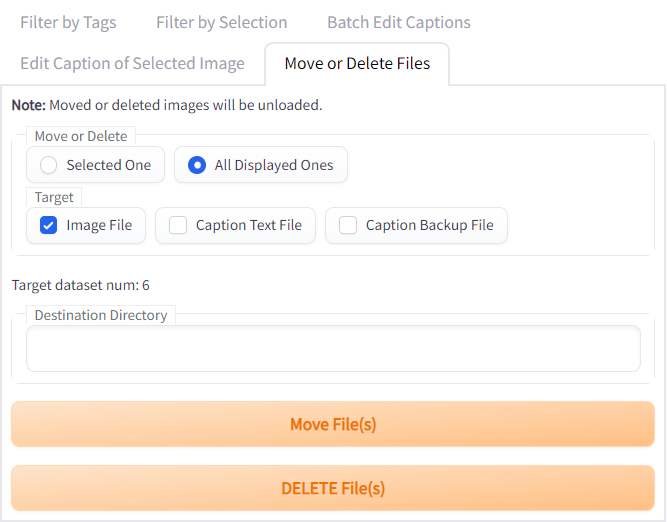
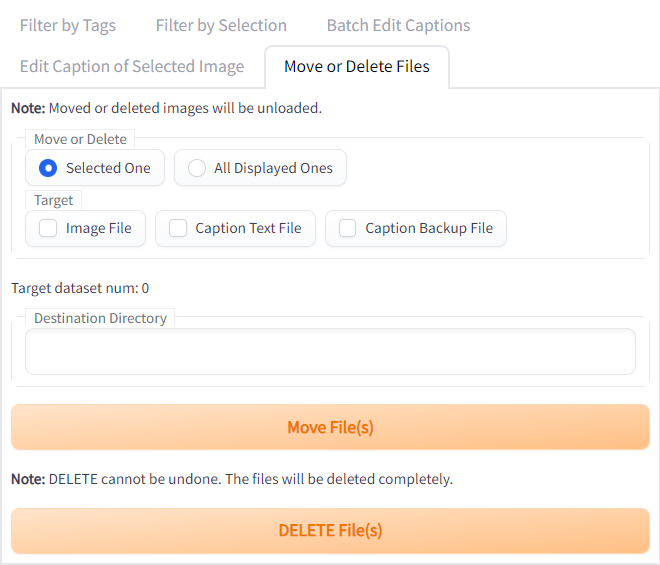
update README-JP

diff --git a/README-JP.md b/README-JP.md
@@ -15,7 +15,8 @@ DeepBooru interrogator で生成したような、カンマ区切り形式のキ
 ## インストール方法
 ### WebUIのExtensionsタブからインストールする
 "Install from URL" タブに `https://github.com/toshiaki1729/stable-diffusion-webui-dataset-tag-editor.git` をコピーしてインストールできます。  
-"Availables" タブにこの拡張機能が表示されている場合は、ワンクリックでインストール可能です。
+"Availables" タブにこの拡張機能が表示されている場合は、ワンクリックでインストール可能です。  
+web UI の "Extensions" タブから更新をした際、完全に更新を適用するには web UI を再起動する必要がある場合があります。
 
 ### 手動でインストールする
 web UI の `extensions` フォルダにリポジトリのクローンを作成し再起動してください。
@@ -30,34 +31,46 @@ git clone https://github.com/toshiaki1729/stable-diffusion-webui-dataset-tag-edi
 - 画像を見ながらキャプションの編集ができます
 - タグの検索ができます
 - 複数タグで絞り込んでキャプションの編集ができます
+  - 絞り込み方法として、AND/OR/NOT検索ができます
 - タグを一括で置換・削除・追加できます
-- BLIPやDeepDanbooruを使用してタグの追加や編集ができます
+- タグまたはキャプション全体について一括置換ができます
+  - [正規表現](https://docs.python.org/ja/3/library/re.html#regular-expression-syntax) が利用可能です
+- BLIP、DeepDanbooru、[WDv1.4 Tagger](https://huggingface.co/SmilingWolf/wd-v1-4-vit-tagger)を使用してタグの追加や編集ができます
+- 画像やキャプションファイルの一括移動・削除ができます
 
 
 ## 使い方
 1. web UI でデータセットを作成する
+    - 既にリサイズ・トリミングされた画像を使用することをお勧めします
 1. データセットを読み込む
-    - 必要に応じてBLIPやDeepDanbooruでタグ付けができます
+    - 必要に応じてDeepDanbooru等でタグ付けができます
 1. キャプションを編集する
-    - "Filter and Edit Tags" タブで編集したいタグを選択する
-      - データセットに含まれるタグを検索・選択して編集対象を絞り込む
-      - 既存のタグを置換・削除したり新しく追加したりする
+    - "Filter by Tags" タブでキャプションの編集をしたい画像を絞り込む
     - 画像を手動で選んで絞り込む場合は "Filter by Selection" タブを使用する
+    - 一括でタグを置換・削除・追加する場合は "Batch Edit Caption" タブを使用する
     - キャプションを個別に編集したい場合は "Edit Caption of Selected Image" タブを使用する
-      - BLIPやDeepDanbooruも利用可能
+      - DeepDanbooru等も利用可能
+    - 選択したものをデータセットから一括移動・削除したい場合は "Remove or Delete Files" タブを使用する
 1. "Save all changes" ボタンをクリックして保存する
 
 
 ## 表示内容
 
 ### 共通
+
+![](pic/ss02.png)
+
 - "Save all changes" ボタン
   - キャプションをテキストファイルに保存します。このボタンを押すまで全ての変更は適用されません。
   - "Backup original text file" にチェックを入れることで、保存時にオリジナルのテキストファイル名をバックアップします。
     - バックアップファイル名は、filename.000、 -.001、 -.002、…、のように付けられます。
   - キャプションを含むテキストファイルが無い場合は新しく作成されます。
-- "Results" テキストボックス
-  - 保存した結果が表示されます。
+- "Reload/Save Settings" アコーディオン
+  - UIで表示されている設定を全て再読み込み・保存したり、デフォルトに戻せます。
+    - "Reload settings" : 設定を再読み込みします。
+    - "Save current settings" : 現在の設定を保存します。
+    - "Restore settings to default" : 設定をデフォルトに戻します（保存はしません）。
+  - 設定は `.../tag-editor-root-dir/config.json` に保存されています。
 - "Dataset Directory" テキストボックス
   - 学習データセットのあるディレクトリを入力してください。
   - 下のオプションからロード方法を変更できます。
@@ -74,37 +87,37 @@ git clone https://github.com/toshiaki1729/stable-diffusion-webui-dataset-tag-edi
 
 ***
 
-### "Filter and Edit Tags" タブ
-![](ss02.png)
-
-- "Search Tags" テキストボックス
-  - 入力した文字で下に表示されているタグを検索し絞り込みます。
+### "Filter by Tags" タブ
+![](pic/ss03.png)
+#### Common
 - "Clear tag filters" ボタン
   - タグの検索やタグによる画像の絞り込みを取り消します。
 - "Clear ALL filters" ボタン
   - "Filter by Selection" タブでの画像選択による絞り込みを含めて、全ての絞り込みを取り消します。
+
+#### Search tags / Filter images by tags
+"Positive Filter" : 指定した条件を**満たす**画像を表示します。  
+"Negative Filter" : 指定した条件を**満たさない**画像を表示します。  
+両フィルタは同時に指定可能です
+
+- "Search Tags" テキストボックス
+  - 入力した文字で下に表示されているタグを検索し絞り込みます。
 - "Sort by / Sort order" ラジオボタン
   - 下に表示されているタグの並び順を切り替えます。
     - Alphabetical Order / Frequency : アルファベット順／出現頻度順
     - Ascending / Descending : 昇順／降順
+- "Filter Logic" ラジオボタン
+  - 絞り込みの方法を指定します。
+    - "AND" : 選択したタグを全て含む画像
+    - "OR" : 選択したタグのいずれかを含む画像
+    - "NONE" : フィルタを無効にする
 - "Filter Images by Tags" チェックボックス
   - 選択したタグによって左の画像を絞り込みます。絞り込まれた画像のキャプションの内容に応じて、タグも絞り込まれます。
-- "Selected Tags" テキストボックス (編集不可)
-  - 選択したタグをカンマ区切りで表示します。
-- "Edit Tags" テキストボックス
-  - 選択したタグを編集します。編集内容は絞り込まれている画像にのみ適用されます。選択されていないタグには影響しません。
-    - 編集すると、カンマ区切りで同じ場所にあるタグを置換できます。
-    - タグを空白に変えることで削除できます。
-    - 末尾にタグを追加することでキャプションに新たなタグを追加できます。
-      - タグが追加される位置はキャプションの先頭と末尾を選べます。
-        - "Prepend additional tags" をチェックすると先頭、チェックを外すと末尾に追加します。
-- "Apply changes to filtered images" ボタン
-  - 絞り込まれている画像に、タグの変更を適用します。
 
 ***
 
 ### "Filter by Selection" タブ
-![](ss03.png)
+![](pic/ss04.png)
 
 - "Add selection" ボタン
   - 左で選択した画像を選択対象に追加します。
@@ -123,8 +136,40 @@ git clone https://github.com/toshiaki1729/stable-diffusion-webui-dataset-tag-edi
 
 ***
 
+### "Batch Edit Captions" タブ
+![](pic/ss05.png)
+
+- "Edit common tags" は、表示されている画像のタグを編集するシンプルな方法です。
+  - "Common Tags" テキストボックス (編集不可)
+    - 表示されている画像に共通するタグをカンマ区切りで表示します。
+    - 上の "Show only … Positive Filter" をチェックすることで、"Filter by Tags" の "Positive Filter" で選択したもののみ表示することができます。
+  - "Edit Tags" テキストボックス
+    - 共通のタグを編集します。編集内容は絞り込まれている画像にのみ適用されます。表示されていないタグには影響しません。
+      - 編集すると、カンマ区切りで同じ場所にあるタグを置換できます。
+      - タグを空白に変えることで削除できます。
+      - 末尾にタグを追加することでキャプションに新たなタグを追加できます。
+        - タグが追加される位置はキャプションの先頭と末尾を選べます。
+          - "Prepend additional tags" をチェックすると先頭、チェックを外すと末尾に追加します。
+  - "Apply changes to filtered images" ボタン
+    - 絞り込まれている画像に、タグの変更を適用します。
+- "Search and Replace" では、表示されている画像のタグまたはキャプション全体に対して一括置換ができます。
+  - "Use regex" にチェックを入れることで、正規表現が利用可能です。
+  - "Search Text" テキストボックス
+    - 置換対象の文字列を入力します。
+  - "Replace Text" テキストボックス
+    - この文字列で "Search Text" を置換します。
+  - "Search and Replace in" ラジオボタン
+    - 一括置換の範囲を選択します
+      - "Only Selected Tags" : "Positive Filter" で選択したタグのみ、それぞれのタグを個別に置換
+      - "Each Tags" : それぞれのタグを個別に置換
+      - "Entire Caption" : キャプション全体を一度に置換
+  - "Search and Replace" ボタン
+    - 一括置換を実行します
+
+***
+
 ### "Edit Caption of Selected Image" タブ
-![](ss04.png) ![](ss05.png)
+![](pic/ss06.png)
 
 #### "Read Caption from Selected Image" タブ
 - "Caption of Selected Image" テキストボックス
@@ -141,3 +186,21 @@ git clone https://github.com/toshiaki1729/stable-diffusion-webui-dataset-tag-edi
   - ここでキャプションの編集が可能です。
 - "Apply changes to selected image" ボタン
   - 選択している画像のキャプションを "Edit Tags" の内容に変更します。
+
+### "Move or Delete Files" タブ
+![](pic/ss07.png)
+
+- "Move or Delete" ラジオボタン
+  - 操作を実行する対象を選びます。
+    - "Selected One" : 左のギャラリーで選択されている画像のみ
+    - "All Displayed Ones" : 左のギャラリーで表示されている画像全て
+- "Target" チェックボックス
+  - 操作を実行する対象を選びます。
+    - "Image File" : 画像ファイル
+    - "Caption Text File" : キャプションファイル
+    - "Caption Backup File" : キャプションファイルのバックアップ
+- "Move File(s)" ボタン
+  - "Destination Directory" で指定したディレクトリにファイルを移動します。
+- "DELETE Files(s)" ボタン
+  - ファイルを削除します。
+  - 注意 : ごみ箱には送られず、完全に削除されます。

diff --git a/README.md b/README.md
@@ -34,7 +34,7 @@ Note. "tag" means each blocks of caption separated by commas.
   - AND/OR logic can be used in each Positive/Negative filters
 - Batch replace/remove/append tags
 - Batch search and replace
-  - [regular expression](https://docs.python.org/3/library/re.html) can be used
+  - [regular expression](https://docs.python.org/3/library/re.html#regular-expression-syntax) can be used
 - Use interrogators
   - BLIP, DeepDanbooru, [WDv1.4 Tagger](https://huggingface.co/SmilingWolf/wd-v1-4-vit-tagger)
 - Batch remove image and/or caption files
@@ -86,9 +86,8 @@ Note. "tag" means each blocks of caption separated by commas.
 - "Clear ALL filters" button
   - clear all filters including image selection filter in the next tab
 
-Positive (inclusive) / Negative (exclusive) filters can be used by toglling tabs.
-
 #### Search tags / Filter images by tags
+Positive (inclusive) / Negative (exclusive) filters can be used by toglling tabs.
 - "Search Tags" text box
   - search and filter the tags displayed below
 - "Sort by / Sort order" radio buttons
